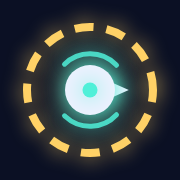
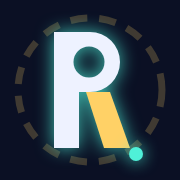
feat: 홈 화면 아이콘을 R 모노그램으로 (v3.5.5)
중계사 글리프를 그대로 쓴 아이콘은 「원 안에 점」이라 어디에나 있는 모양이었다.

글자는 획이 아니라 면으로 짰다 — 60px로 줄면 획은 가늘어져 뭉개지고 면은
실루엣이 남는다. 다리를 선으로 그었더니 글자 위에 빗금이 간 것처럼 보여서
사다리꼴 면으로 바꿨다. 보울의 구멍은 destination-out으로 파낸다.
뒤의 옅은 파선 원은 신호권 — 글자만 두면 게임이 아니라 회사 로고가 된다.

구멍 자리에 신호권을 넣은 안도 만들어 봤는데, 60px에서 톱니바퀴처럼 뭉갰다.

용량도 같이 줄었다 — 180: 39KB → 21KB, 512: 208KB → 101KB.
탭 아이콘(data: URI)도 R로 맞췄다. 2062자 → 1226자.

검증: 헤드리스 15스위트 401개 전부 통과

Claude-Session: https://claude.ai/code/session_01ExBmWmYPJy8VTyL5RvjXk4

diff --git a/index.html b/index.html
@@ -5,13 +5,14 @@
 <meta name="viewport" content="width=device-width,initial-scale=1,viewport-fit=cover">
 <title>RELAY — 중계</title>
 <!-- 홈 화면에 추가 — iOS 사파리는 매니페스트를 거의 안 보고 이 apple- 태그들을 본다.
-     아이콘은 게임 안의 drawChar로 그렸다(신호권 파선 + 중계사). 그림이 둘로 갈릴 수 없게.
+     아이콘은 R 모노그램이다. 처음엔 게임의 중계사 글리프를 썼는데 「원 안에 점」이라
+     어디에나 있는 모양이었다. 글자를 획이 아니라 면으로 짜야 60px에서 안 뭉개진다.
      상태 표시줄을 black-translucent가 아니라 black으로 두는 이유: 반투명이면 상태 표시줄이
      화면 맨 위를 덮는데, 거기가 경험치 바 자리다(top:0, 높이 14px). 시계·배터리에 가린다. -->
 <link rel="apple-touch-icon" href="icon-180.png">
 <!-- 탭 아이콘은 파일이 아니라 여기 박는다. 파일로 두면 방문할 때마다 40KB를 받는다.
-     32px에서는 파선도 중계사도 안 보이므로 금색 원과 청록 점만 남긴 판이다. -->
[1 lines of base64/hex data omitted]
+     32px에서는 파선도 신호점도 안 보이므로 글자만 꽉 채운 판이다. -->
[1 lines of base64/hex data omitted]
 <meta name="apple-mobile-web-app-capable" content="yes">
 <meta name="mobile-web-app-capable" content="yes">
 <meta name="apple-mobile-web-app-status-bar-style" content="black">
@@ -576,7 +577,7 @@ p{color:var(--ash);line-height:1.6;font-size:17px;font-weight:500}
 <script>
 (()=>{"use strict";
 /* 배포할 때 여기만 올린다. 메뉴 상단 시드 옆에 표시된다. */
-const VERSION="3.5.4";
+const VERSION="3.5.5";
 const $=s=>document.querySelector(s), TAU=Math.PI*2;
 const KRF="'Chakra Petch','Apple SD Gothic Neo','Noto Sans KR','Malgun Gothic','맑은 고딕',system-ui,sans-serif";   // 캔버스 텍스트용 한글 폴백 스택
 const rnd=(a,b)=>a+Math.random()*(b-a), pick=a=>a[Math.floor(Math.random()*a.length)];
